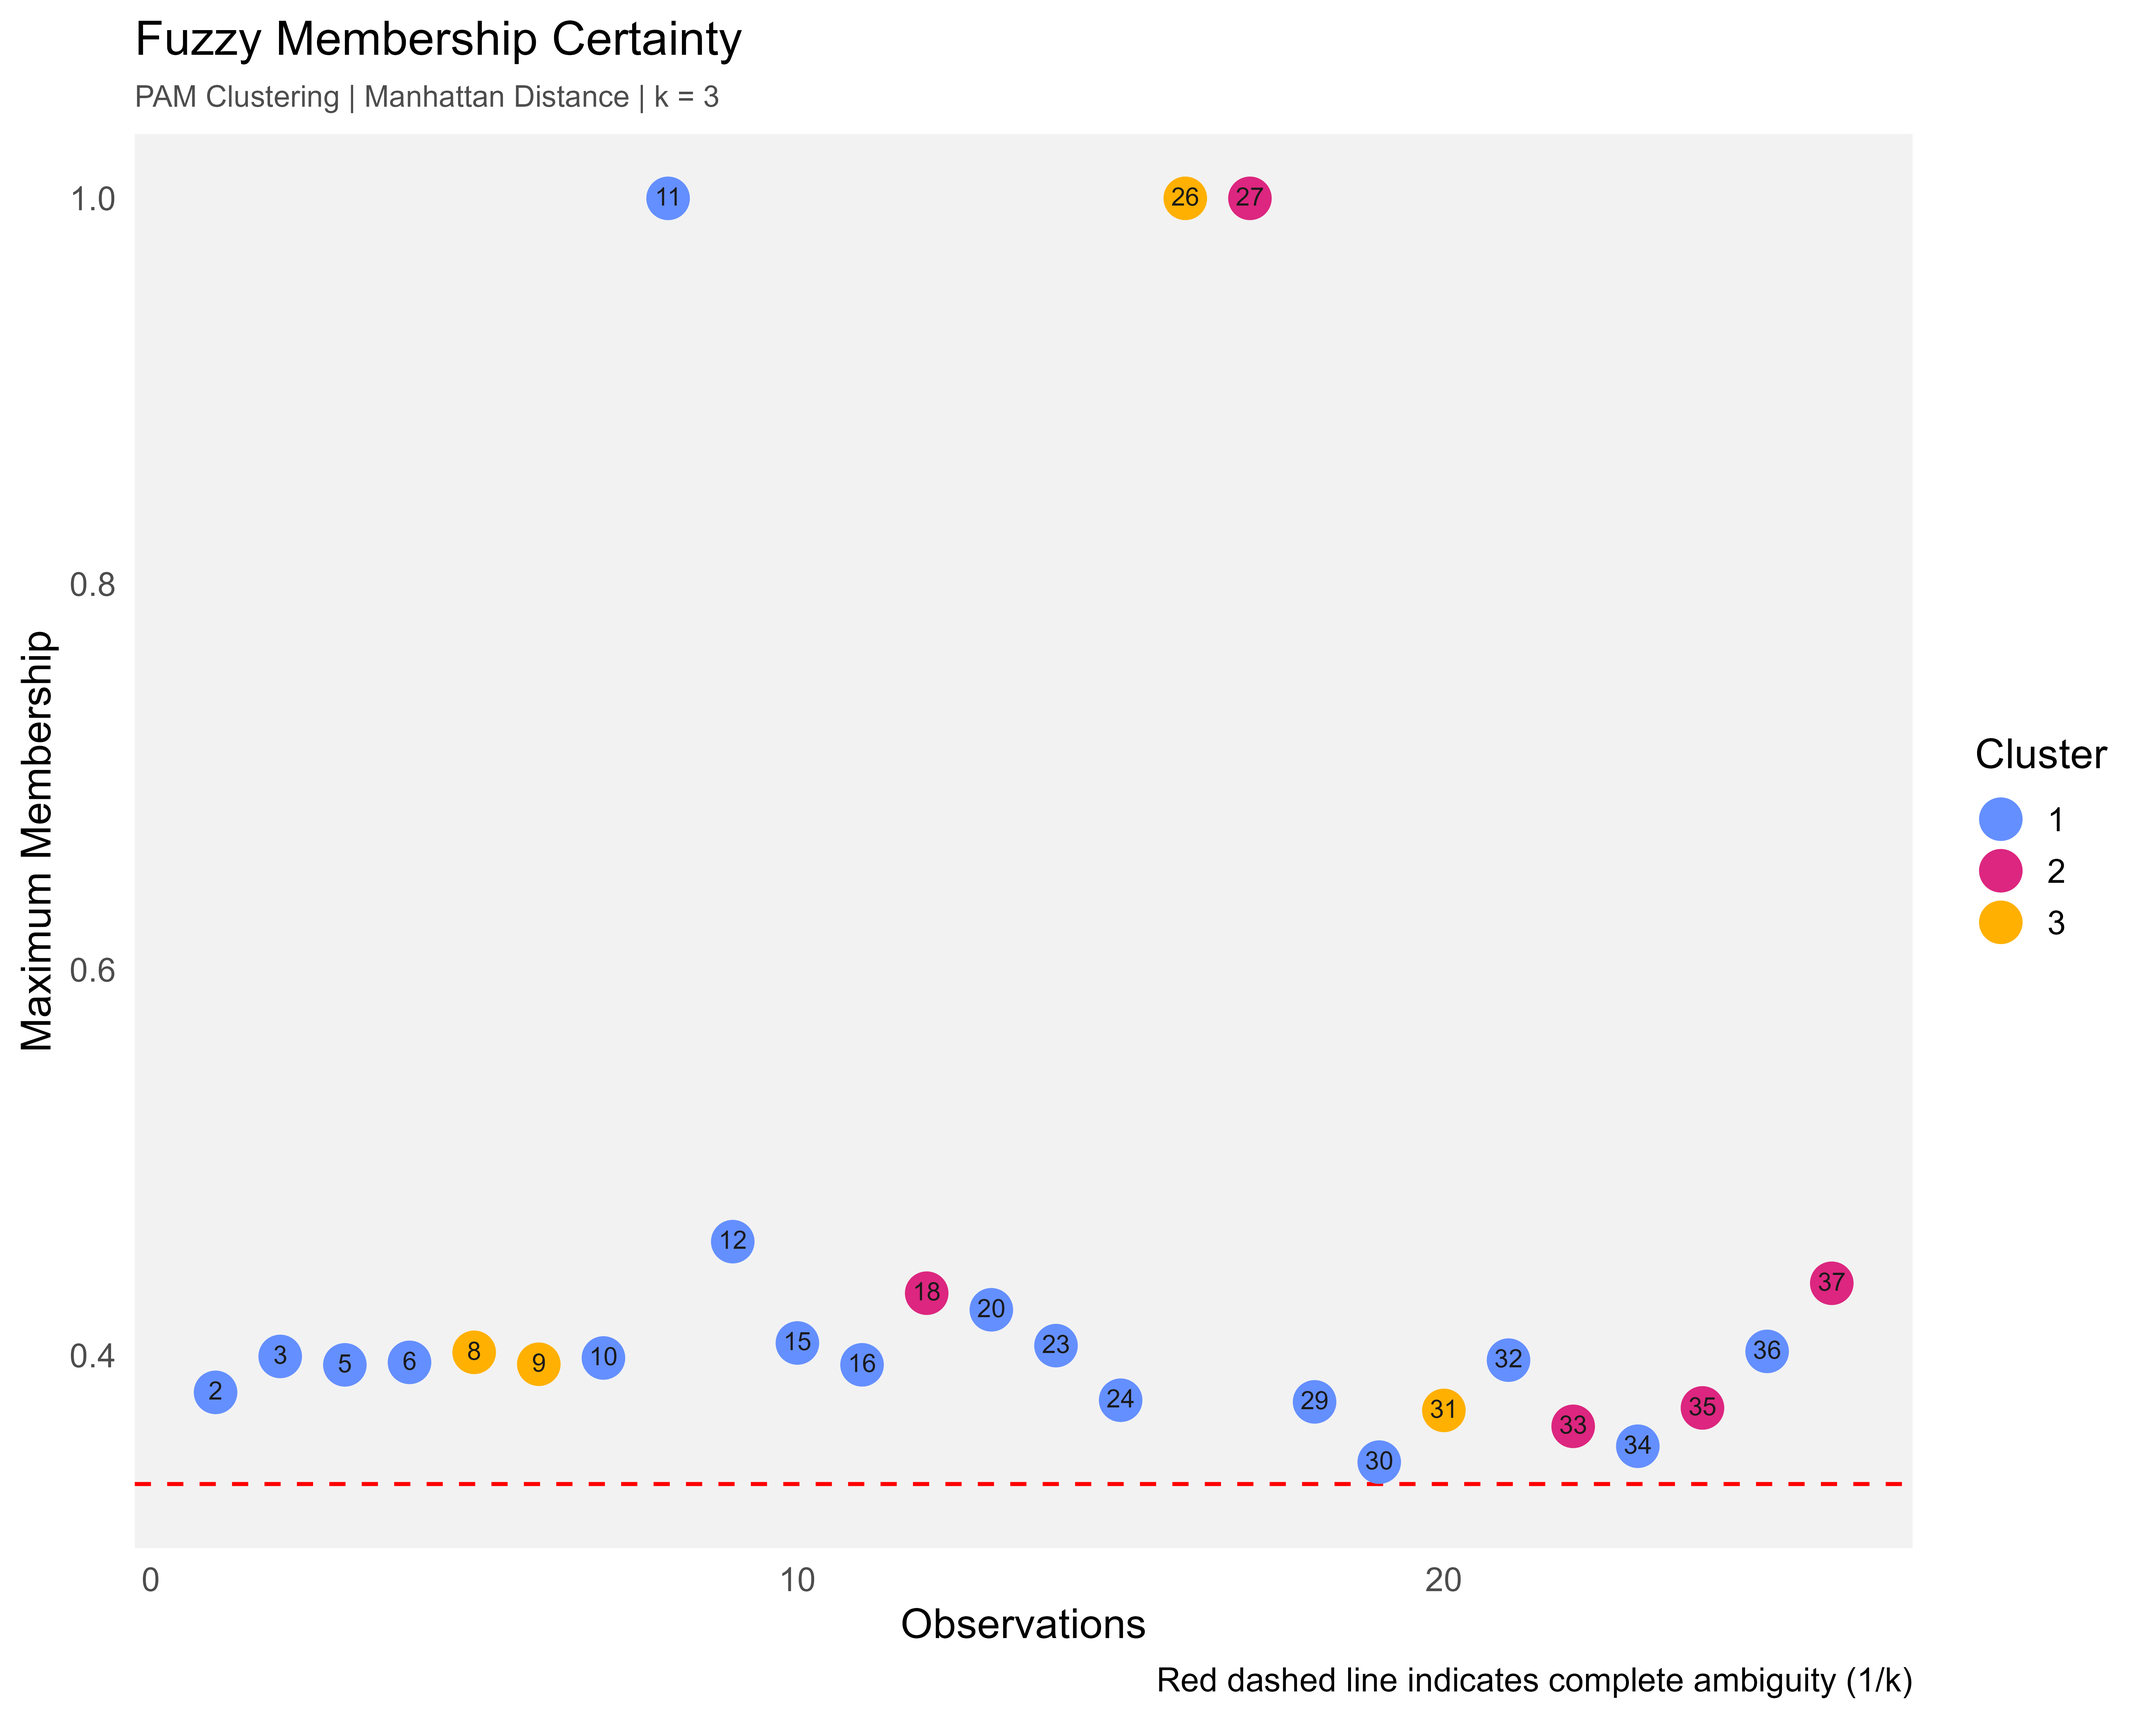
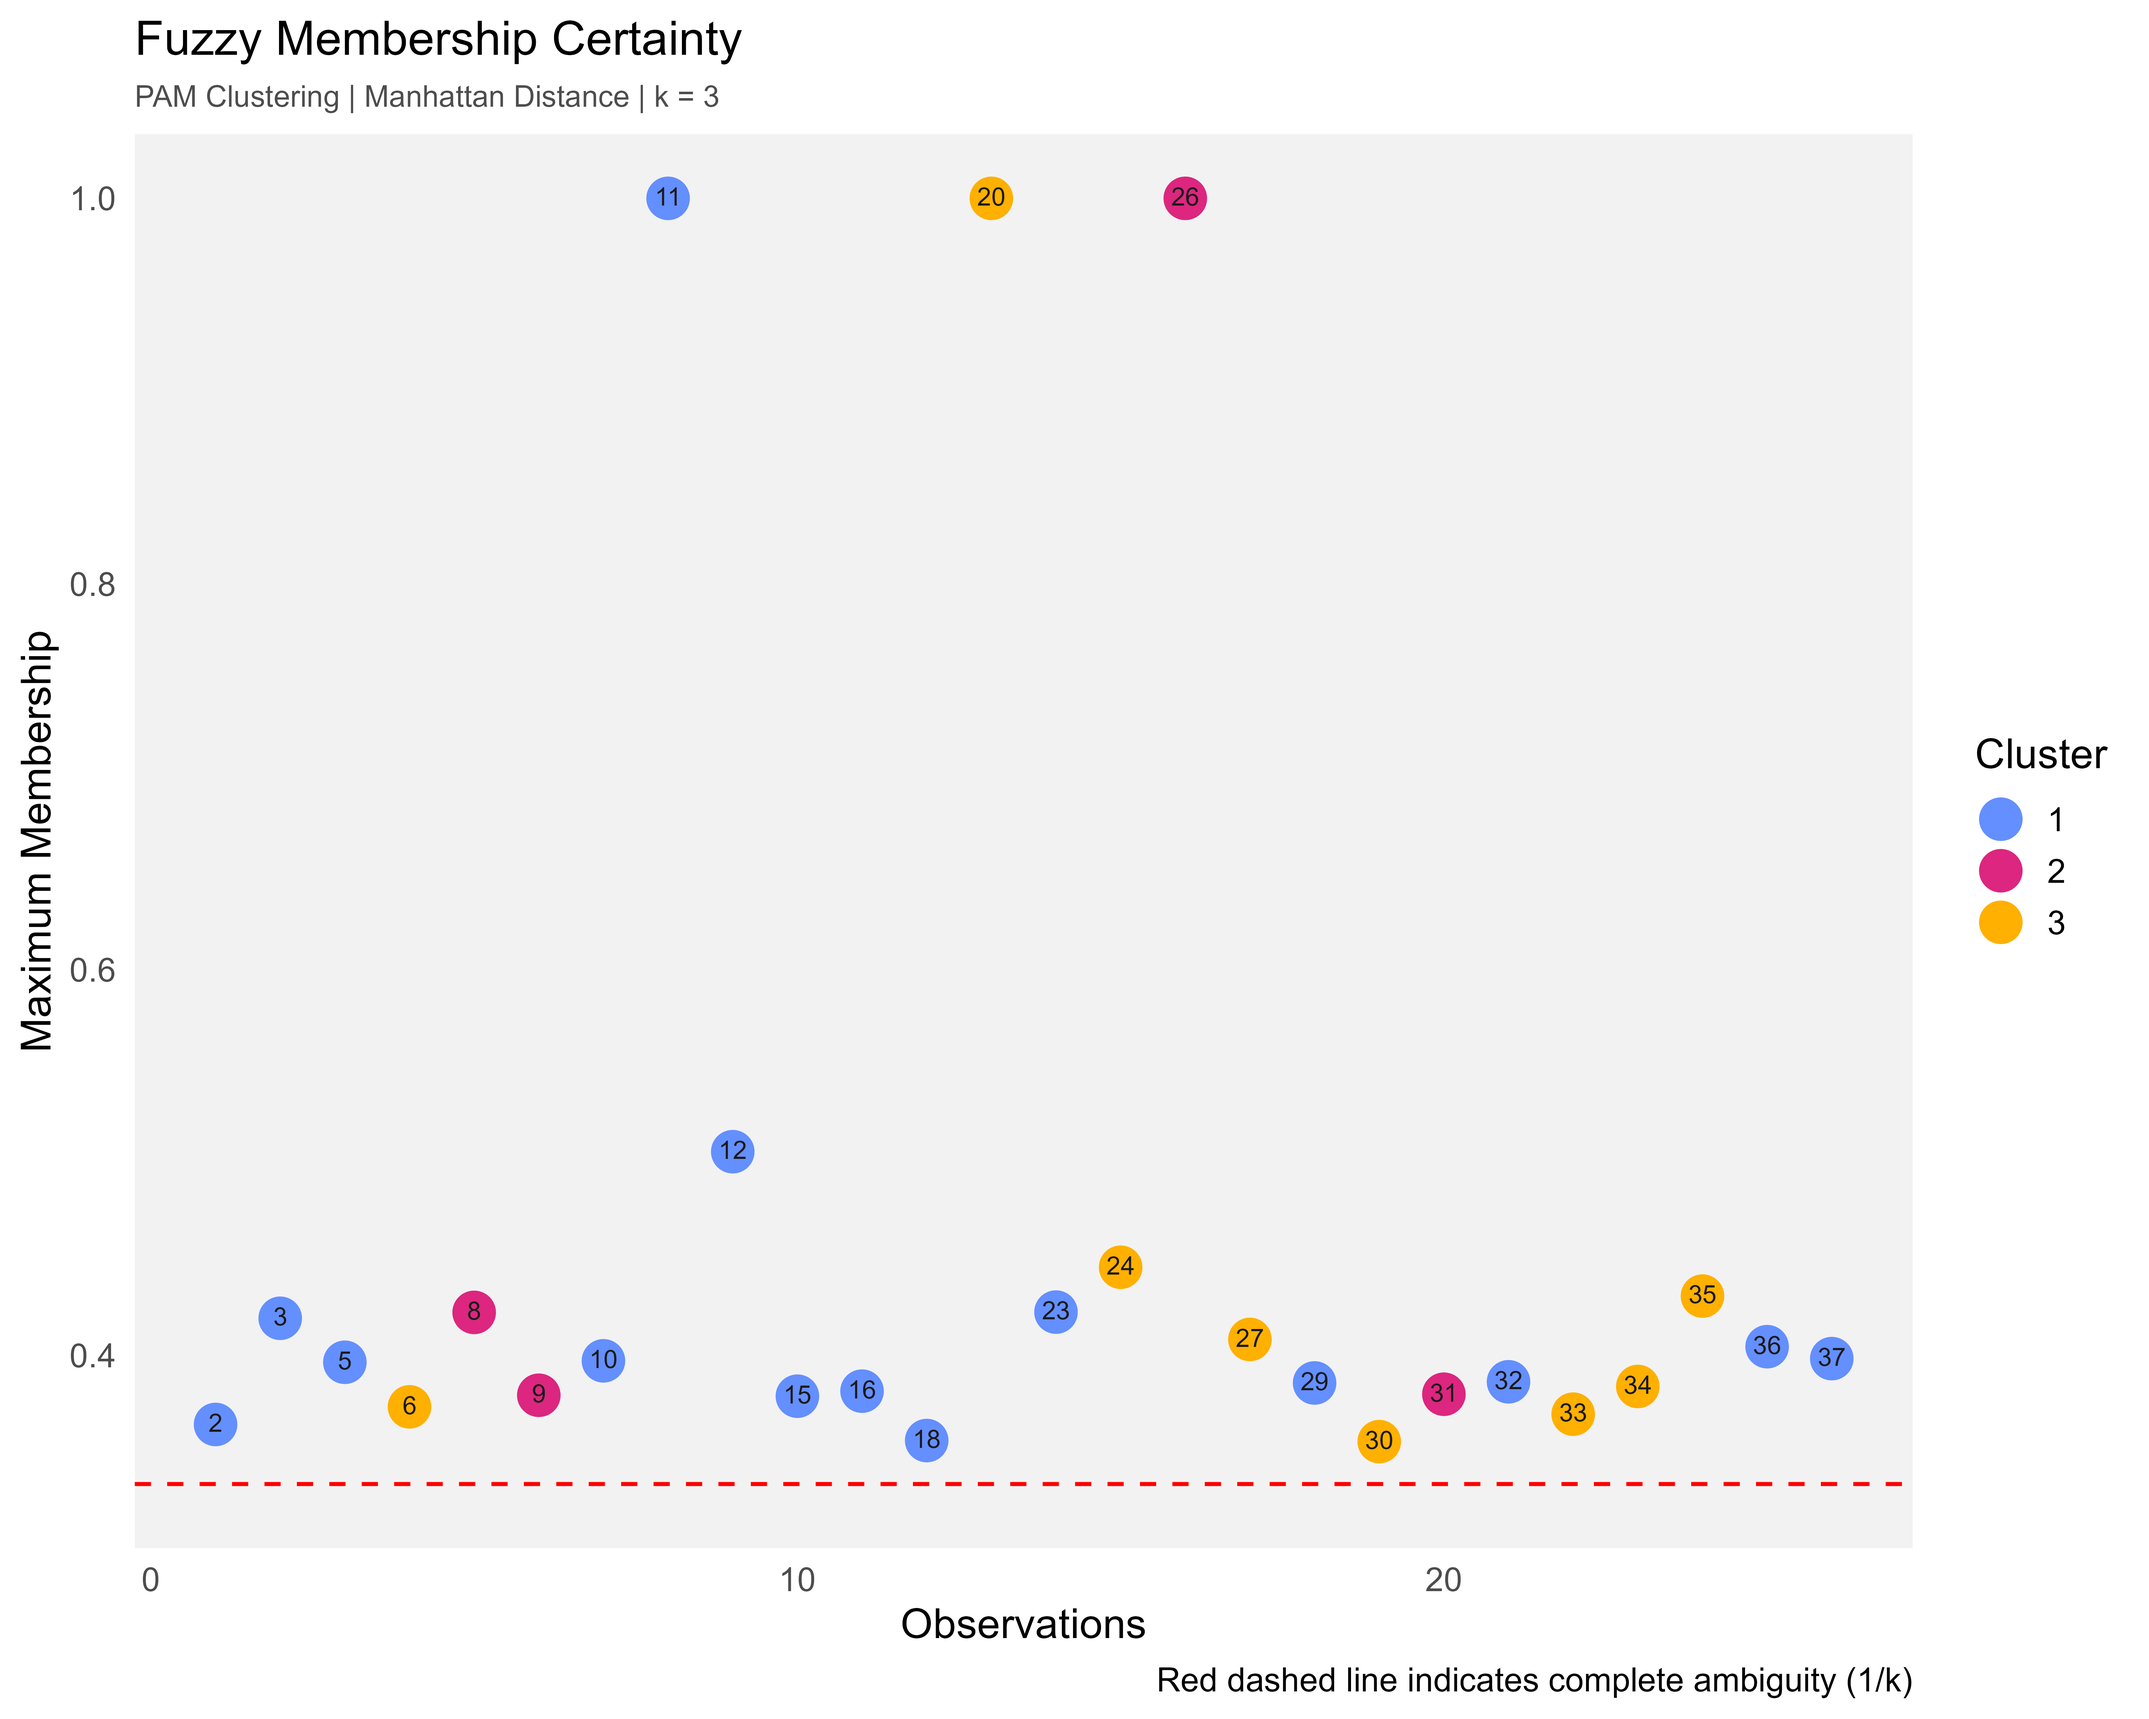
fix

diff --git a/Text/Reports/Report.html b/Text/Reports/Report.html
@@ -1810,20 +1810,26 @@ window.Quarto = {
 </div>
 </div>
 <p>The silhouette value/metric is a measurement of the quality of a clustering. between -1 and 1. The data reports the optimal silhouette width as 5, with 0.6496032, indicating some. There are several other clustering values with a reported similar quality.</p>
+<div class="quarto-figure quarto-figure-center">
+<figure class="figure">
+<p><img src="https://raw.githubusercontent.com/luke8471/STAT394-GROUP-3/main/Figures/PAM.png" class="img-fluid figure-img"></p>
+<figcaption>PAM Silhouette Plot</figcaption>
+</figure>
+</div>
 <p>Due to the ambiguous clustering, we opted to perform more cluster analyses to determine if this was a good fit.</p>
 <p>MANHATTAN NOT EUCLEDIAN.</p>
 </section>
 <section id="linkage-analysis" class="level2">
 <h2 class="anchored" data-anchor-id="linkage-analysis">5. Linkage Analysis</h2>
-<p>Hierarchical cluster using Manhattan Distance as a measure. Because more robust to outliers then Eucledian etc.</p>
+<p>Hierarchical cluster using Manhattan Distance as a measure. Chosen because it is more robust to outliers then Eucledian.</p>
 <div class="quarto-figure quarto-figure-center">
 <figure class="figure">
 <p><img src="https://raw.githubusercontent.com/luke8471/STAT394-GROUP-3/main/Figures/dendrogram.png" class="img-fluid figure-img"></p>
 <figcaption>Dendrogram</figcaption>
 </figure>
 </div>
-<p>Something interesting top note is that for both cluster options they both cluster sample’s 15, 10, and 22 this could be because of …</p>
-<p>Cophenetic correlation coefficient 0.825 is pretty dang good. I’m going to remake this using ggplot, should be nicer.</p>
+<p>Cophenetic correlation coefficient ranges between -1 to 1, with a value of 1 indicating a perfect fit between the clusters and the data. A value of 0.798 means that the clustering is a fairly good fit. CCC can be used to compare between clustering methods.</p>
+<p>We can see which sample pairs are more similar to one another, then to other sample pairs, for example samples 5 and 8 are more similar to one another then either is too the rest of the yellow cluster. We can also see for example that sample 32 is most similar to the grouping of samples 31, 3, 10, and 29 then to any of those samples individually.</p>
 </section>
 <section id="cluster-analysis" class="level2">
 <h2 class="anchored" data-anchor-id="cluster-analysis">6. Cluster Analysis</h2>
@@ -1836,7 +1842,8 @@ window.Quarto = {
 <figcaption>UMAP</figcaption>
 </figure>
 </div>
-<p>The UMAP projection shows clear overlap groupings….</p>
+<p>The UMAP PAM projection shows clear overlap groupings.</p>
+<p>Interesting to note samples 16 and 15 are in different clusters but are close together on the coordinate space when compared to the dendrogram above. This makes intuitive sense as these two samples have a moderate degree of similarity to one another but both also are only moderately similar to their assigned clusters. On a UMAP projection, distance between points within a cluster can be seen as conveying the points similarity with each other however comparing far away points/clusters to each other can lead to issues due to the universal distance not being directly scaled. UMAP projections arn’t ideal for making interpretations from but the visualisation of PAM clusters allows us to see that all 3 clusters are somewhat close to one another.</p>
 <p><strong>6.2 Fuzzy Analysis</strong></p>
 <p>As the fourth and final method of clustering, we performed a Fuzzy analysis.</p>
 <div class="cell">
@@ -1855,44 +1862,44 @@ window.Quarto = {
 <tr class="odd">
 <td style="text-align: left;">2</td>
 <td style="text-align: right;">0.3808610</td>
-<td style="text-align: right;">0.2839108</td>
 <td style="text-align: right;">0.3352282</td>
+<td style="text-align: right;">0.2839108</td>
 </tr>
 <tr class="even">
 <td style="text-align: left;">3</td>
 <td style="text-align: right;">0.3994904</td>
-<td style="text-align: right;">0.3025900</td>
 <td style="text-align: right;">0.2979197</td>
+<td style="text-align: right;">0.3025900</td>
 </tr>
 <tr class="odd">
 <td style="text-align: left;">5</td>
 <td style="text-align: right;">0.3951292</td>
-<td style="text-align: right;">0.2562405</td>
 <td style="text-align: right;">0.3486303</td>
+<td style="text-align: right;">0.2562405</td>
 </tr>
 <tr class="even">
 <td style="text-align: left;">6</td>
 <td style="text-align: right;">0.3964214</td>
-<td style="text-align: right;">0.3030350</td>
 <td style="text-align: right;">0.3005436</td>
+<td style="text-align: right;">0.3030350</td>
 </tr>
 <tr class="odd">
 <td style="text-align: left;">8</td>
 <td style="text-align: right;">0.3548860</td>
-<td style="text-align: right;">0.2434897</td>
 <td style="text-align: right;">0.4016243</td>
+<td style="text-align: right;">0.2434897</td>
 </tr>
 <tr class="even">
 <td style="text-align: left;">9</td>
 <td style="text-align: right;">0.3448716</td>
-<td style="text-align: right;">0.2596851</td>
 <td style="text-align: right;">0.3954432</td>
+<td style="text-align: right;">0.2596851</td>
 </tr>
 <tr class="odd">
 <td style="text-align: left;">10</td>
 <td style="text-align: right;">0.3987019</td>
-<td style="text-align: right;">0.2584034</td>
 <td style="text-align: right;">0.3428947</td>
+<td style="text-align: right;">0.2584034</td>
 </tr>
 <tr class="even">
 <td style="text-align: left;">11</td>
@@ -1903,110 +1910,110 @@ window.Quarto = {
 <tr class="odd">
 <td style="text-align: left;">12</td>
 <td style="text-align: right;">0.4590163</td>
-<td style="text-align: right;">0.3743813</td>
 <td style="text-align: right;">0.1666023</td>
+<td style="text-align: right;">0.3743813</td>
 </tr>
 <tr class="even">
 <td style="text-align: left;">15</td>
 <td style="text-align: right;">0.4064680</td>
-<td style="text-align: right;">0.3074530</td>
 <td style="text-align: right;">0.2860789</td>
+<td style="text-align: right;">0.3074530</td>
 </tr>
 <tr class="odd">
 <td style="text-align: left;">16</td>
 <td style="text-align: right;">0.3951507</td>
-<td style="text-align: right;">0.2462246</td>
 <td style="text-align: right;">0.3586247</td>
+<td style="text-align: right;">0.2462246</td>
 </tr>
 <tr class="even">
 <td style="text-align: left;">18</td>
 <td style="text-align: right;">0.2977457</td>
-<td style="text-align: right;">0.4322926</td>
 <td style="text-align: right;">0.2699617</td>
+<td style="text-align: right;">0.4322926</td>
 </tr>
 <tr class="odd">
 <td style="text-align: left;">20</td>
 <td style="text-align: right;">0.4236822</td>
-<td style="text-align: right;">0.3502296</td>
 <td style="text-align: right;">0.2260882</td>
+<td style="text-align: right;">0.3502296</td>
 </tr>
 <tr class="even">
 <td style="text-align: left;">23</td>
 <td style="text-align: right;">0.4050991</td>
-<td style="text-align: right;">0.2507065</td>
 <td style="text-align: right;">0.3441944</td>
+<td style="text-align: right;">0.2507065</td>
 </tr>
 <tr class="odd">
 <td style="text-align: left;">24</td>
 <td style="text-align: right;">0.3767881</td>
-<td style="text-align: right;">0.3403890</td>
 <td style="text-align: right;">0.2828230</td>
+<td style="text-align: right;">0.3403890</td>
 </tr>
 <tr class="even">
 <td style="text-align: left;">26</td>
 <td style="text-align: right;">0.0000000</td>
-<td style="text-align: right;">0.0000000</td>
 <td style="text-align: right;">1.0000000</td>
+<td style="text-align: right;">0.0000000</td>
 </tr>
 <tr class="odd">
 <td style="text-align: left;">27</td>
 <td style="text-align: right;">0.0000000</td>
-<td style="text-align: right;">1.0000000</td>
 <td style="text-align: right;">0.0000000</td>
+<td style="text-align: right;">1.0000000</td>
 </tr>
 <tr class="even">
 <td style="text-align: left;">29</td>
 <td style="text-align: right;">0.3759377</td>
-<td style="text-align: right;">0.2859738</td>
 <td style="text-align: right;">0.3380885</td>
+<td style="text-align: right;">0.2859738</td>
 </tr>
 <tr class="odd">
 <td style="text-align: left;">30</td>
 <td style="text-align: right;">0.3446866</td>
-<td style="text-align: right;">0.3314023</td>
 <td style="text-align: right;">0.3239112</td>
+<td style="text-align: right;">0.3314023</td>
 </tr>
 <tr class="even">
 <td style="text-align: left;">31</td>
 <td style="text-align: right;">0.3267719</td>
-<td style="text-align: right;">0.3017146</td>
 <td style="text-align: right;">0.3715135</td>
+<td style="text-align: right;">0.3017146</td>
 </tr>
 <tr class="odd">
 <td style="text-align: left;">32</td>
 <td style="text-align: right;">0.3975712</td>
-<td style="text-align: right;">0.2877853</td>
 <td style="text-align: right;">0.3146435</td>
+<td style="text-align: right;">0.2877853</td>
 </tr>
 <tr class="even">
 <td style="text-align: left;">33</td>
 <td style="text-align: right;">0.3103118</td>
-<td style="text-align: right;">0.3632485</td>
 <td style="text-align: right;">0.3264398</td>
+<td style="text-align: right;">0.3632485</td>
 </tr>
 <tr class="odd">
 <td style="text-align: left;">34</td>
 <td style="text-align: right;">0.3529295</td>
-<td style="text-align: right;">0.3328316</td>
 <td style="text-align: right;">0.3142389</td>
+<td style="text-align: right;">0.3328316</td>
 </tr>
 <tr class="even">
 <td style="text-align: left;">35</td>
 <td style="text-align: right;">0.3675679</td>
-<td style="text-align: right;">0.3728005</td>
 <td style="text-align: right;">0.2596316</td>
+<td style="text-align: right;">0.3728005</td>
 </tr>
 <tr class="odd">
 <td style="text-align: left;">36</td>
 <td style="text-align: right;">0.4021137</td>
-<td style="text-align: right;">0.3029690</td>
 <td style="text-align: right;">0.2949173</td>
+<td style="text-align: right;">0.3029690</td>
 </tr>
 <tr class="even">
 <td style="text-align: left;">37</td>
 <td style="text-align: right;">0.3269203</td>
-<td style="text-align: right;">0.4374294</td>
 <td style="text-align: right;">0.2356503</td>
+<td style="text-align: right;">0.4374294</td>
 </tr>
 </tbody>
 </table>
